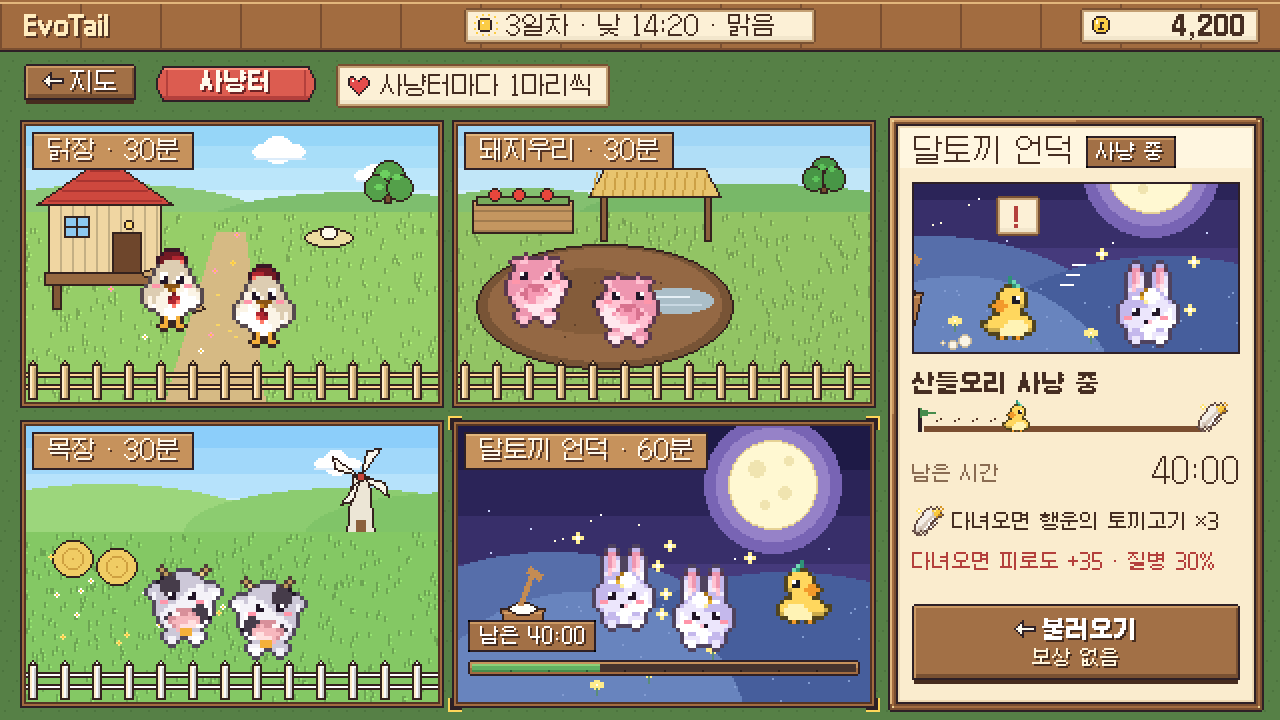
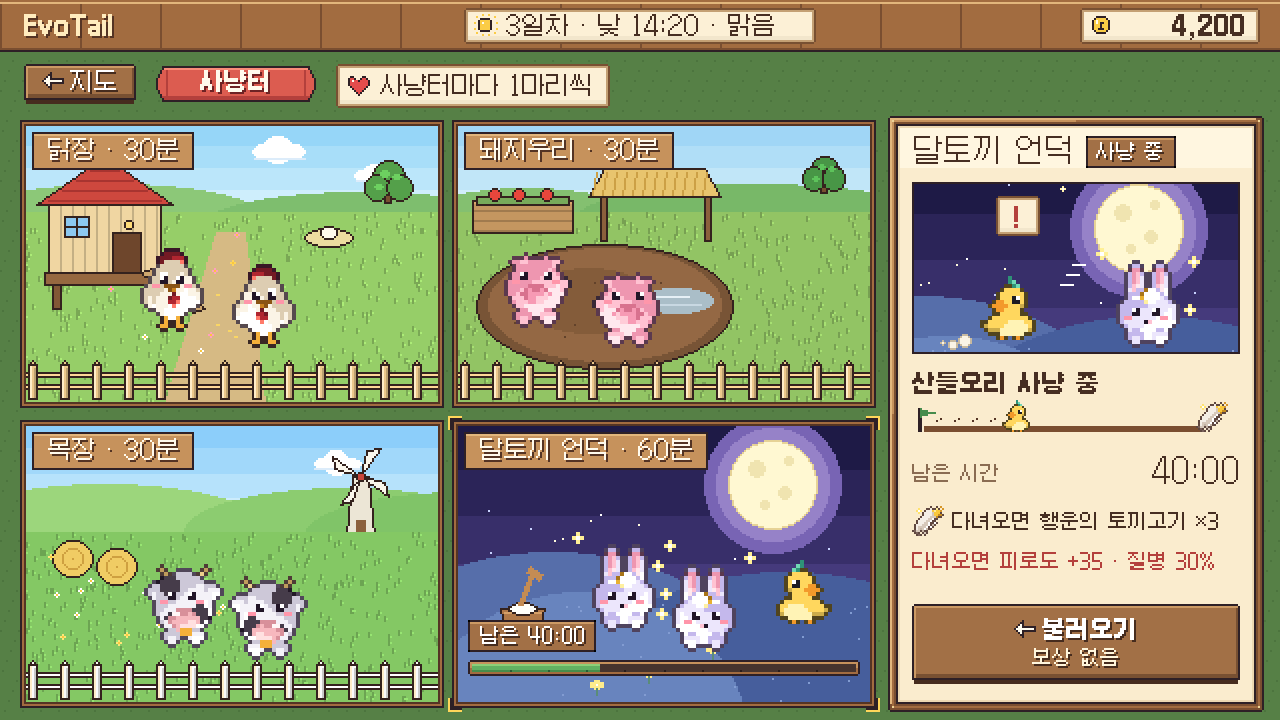
사냥터 무대: 세로 자르기를 사냥터마다 따로 (STAGE_CROP_Y)
- STAGE_CROP_BOTTOM(울타리 위 18px 고정) 대신 사냥터별 세로 시작 STAGE_CROP_Y = 닭장 12 · 돼지우리 20 · 목장 8 · 달토끼 8
  (높이는 상자 그대로). 4곳 모두 상자 아래가 울타리 위에서 끝나고 위쪽 소품이 안 잘림. 가로 STAGE_CROP_X는 그대로
- tools/hunt_mock.py stage_box()도 같은 값, 목업 hunt_A4·A5·A6 다시 만듦
- CLAUDE.md 사냥터 무대 설명 갱신

Changed region(s): [[0.6875, 0.2444, 0.9688, 0.4889], [0.0625, 0.0, 0.0938, 0.0611]]

diff --git a/gui/scenes/hunting.py b/gui/scenes/hunting.py
@@ -39,7 +39,8 @@ STAGE = pygame.Rect(PANEL.x + 13, 92, 162, 84)           # 오른쪽 칸 무대 
 # 상자 왼쪽·오른쪽 끝에 잘리는 소품이 없게 고른 값 (최대 208 - 162 = 46): 달토끼 절구(x 22~44)는 상자 밖, 닭장(6~90)·여물통(8~58)은
 # 통째로 안, 목장은 건초(14~)와 풍차 기둥(~175)이 딱 들어가게
 STAGE_CROP_X = {'rabbit_hill': 46, 'chicken_coop': 5, 'pig_pen': 4, 'ranch': 14}
-STAGE_CROP_BOTTOM = 18
+# 세로 시작 y (높이는 상자 그대로 84): 4곳 모두 상자 아래가 울타리 위(y 104 이하)에서 끝나고 위쪽 소품(지붕·사과·쉼터·풍차)이 안 잘리게
+STAGE_CROP_Y = {'chicken_coop': 12, 'pig_pen': 20, 'ranch': 8, 'rabbit_hill': 8}
 ROW_H, ROW_STEP, ROWS = 32, 33, 3
 LIST_Y = 198
 ACTIVITY_LABEL = {'training': '훈련 중'}
@@ -305,12 +306,13 @@ class HuntScene(Scene):
 
     # ---------- 오른쪽 칸 무대 (목업 hunt_A4_running_v2 / hunt_A5_return_v2) ----------
     def stage_bg(self, area):
-        """무대 배경 = 그 사냥터 풍경의 아래쪽(울타리 위)을 무대 크기로 자른 것 (tools/hunt_mock.py stage_box()와 같은 자리)."""
+        """무대 배경 = 그 사냥터 풍경을 무대 크기로 자른 것. 자리는 사냥터마다 STAGE_CROP_X·STAGE_CROP_Y
+        (tools/hunt_mock.py stage_box()와 같은 값)."""
         key = ('stage', area)
         if key not in self._img:
             z = self.image('zones', area)
             cx = STAGE_CROP_X.get(area, 30)
-            y0 = z.get_height() - STAGE.h - STAGE_CROP_BOTTOM
+            y0 = STAGE_CROP_Y.get(area, 12)
             self._img[key] = z.subsurface((cx, y0, STAGE.w, STAGE.h)).copy()
         return self._img[key]
 

diff --git a/tools/hunt_mock.py b/tools/hunt_mock.py
@@ -250,7 +250,8 @@ if __name__ == '__main__':
 def stage_box(base, key, x, y, w, h, dim=1.0):
     z = Z2.zone(key, 208, 140)
     cx = {'rabbit_hill': 46, 'chicken_coop': 5, 'pig_pen': 4, 'ranch': 14}[key]   # gui/scenes/hunting.py STAGE_CROP_X와 같음
-    crop = z.crop((cx, 140 - h - 18, cx + w, 140 - 18))
+    cy = {'chicken_coop': 12, 'pig_pen': 20, 'ranch': 8, 'rabbit_hill': 8}[key]      # gui/scenes/hunting.py STAGE_CROP_Y와 같음
+    crop = z.crop((cx, cy, cx + w, cy + h))
     if dim != 1.0: crop = ImageEnhance.Brightness(crop).enhance(dim)
     d = ImageDraw.Draw(base); d.rectangle((x - 1, y - 1, x + w, y + h), outline=INK)
     paste(base, crop, (x, y))

diff --git a/CLAUDE.md b/CLAUDE.md
@@ -254,7 +254,7 @@ CHARACTERS.md        캐릭터 목록 · GUI.md 화면 구조 설명
   - 좌표는 `assets/hunt/spots.json` (구역 그림 왼쪽 위 기준): critters(사냥감 2마리), animal(보낸 동물 자리, 그림 왼쪽 위 = (x, y-28), ×2), chip(남은 시간 칩), gauge_from_bottom. 숫자는 코드에 적지 않음
   - 사냥 중(스냅샷 `hunts[area]`, ready False): 보낸 동물 + 갈색 칩 "남은 12:40" + 초록 게이지(남은 시간 = end - `app.now()`) / 완료(ready True): 초록 칩 "사냥 완료!" + 보낸 동물 머리 위 말풍선(고기 그림 + "×3") / 고른 칸 노란 꺾쇠
 - 오른쪽 칸: 빈 사냥터 = 이름 + 시간 칩, "받는 것" 고기 ×2 + "소고기 ×3", "다녀오면" 두 줄(포만감·기분 / 빨강 피로도·질병), "보낼 동물" 목록(얼굴 + 이름 + "보낼 수 있음" 또는 이유, 3줄 넘으면 휠), "○○ 보내기"(아래 "30분 뒤 소고기 3개") = `start_hunting(key, area)` / 사냥 중·완료 = 아래 무대 + 글씨 (목업 hunt_A4_running_v2, hunt_A5_return_v2, hunt_A6_return_sick)
-  - **무대**: 칸 위쪽 상자(162×84) = 그 사냥터 풍경 `zones/<area>.png`의 아래쪽(울타리 위 18px)을 잘라 씀. 가로 자르는 자리는 `hunting.STAGE_CROP_X`(tools/hunt_mock.py `stage_box()`와 같음). 동물·사냥감·고기는 정수배만
+  - **무대**: 칸 위쪽 상자(162×84) = 그 사냥터 풍경 `zones/<area>.png`(208×140)를 사냥터마다 정한 자리에서 잘라 씀: 가로 시작 `hunting.STAGE_CROP_X`(닭장 5 · 돼지우리 4 · 목장 14 · 달토끼 46), 세로 시작 `STAGE_CROP_Y`(12 · 20 · 8 · 8). 상자 가장자리에 소품이 잘리지 않고 아래는 울타리 위(y 104 이하)에서 끝남 (목장 풍차 날개 끝 1~2px만 걸림). tools/hunt_mock.py `stage_box()`와 같은 값. 동물·사냥감은 상자 아래쪽 땅에, 정수배만
   - **사냥 중**: 무대 왼쪽 내 동물(×2, 오른쪽 보게 뒤집기)이 사냥감(×2)을 쫓아감. 둘 다 1px씩 통통, 내 동물 발밑 흙먼지(작은 원 3개가 뒤로), 머리 위 "!" 말풍선(빨강), 사냥감 뒤 흰 속도선 3줄. 아래 "○○ 사냥 중" + **진행 길**(왼쪽 출발 깃발 → 오른쪽 고기 그림, 동물 얼굴이 진행도 = 1 - 남은/전체 만큼 앞으로, 지나온 자리 발자국 점), "남은 시간"(왼쪽 작은 글씨) + 남은 시간(big, 오른쪽), 고기 그림 + "다녀오면 행운의 토끼고기 ×3", 빨강 "다녀오면 피로도 +35 · 질병 30%", 갈색 "불러오기"(아래 "보상 없음") → 확인 창 → `cancel_hunting(area)`
   - **완료**: 무대 위 왼쪽 초록 리본 "귀환!", 무대 뒤 빛줄기(천천히 회전), 동물(×2) + 오른쪽 고기 3개(×2) 담긴 바구니, 반짝이 깜빡임. "○○ 귀환", "행운의 토끼고기 ×3"(왼쪽 작은 글씨) + 초록 "가방 1 → 4"(오른쪽), **다녀온 결과 칩**: 주황 "피로도 +35" "포만감 -20" / 다음 줄 "기분 -10" + 상태 칩(지금 스냅샷 동물 `sick`이면 빨강 "아픔 · 병원 치료", 아니면 초록 "건강함"), 칩이 칸 폭을 넘으면 다음 줄로. "지금 피로도 N 단계"(`T.level`), 주황 "보상 받기" = `collect_hunt(area)` → 알림 "돼지고기 +3"
   - 긴 이름("행운의 토끼고기")이 칸 폭을 넘으면 줄을 나누고(글자 크기 그대로) 아래 줄을 그만큼 내림 (빈 사냥터 "받는 것"은 `wrap2`, 나머지는 `_text_lines`). 오른쪽 칸 글씨 줄은 전부 check_text_fit 넘침 점검에 기록(tag `hunt-panel`)
